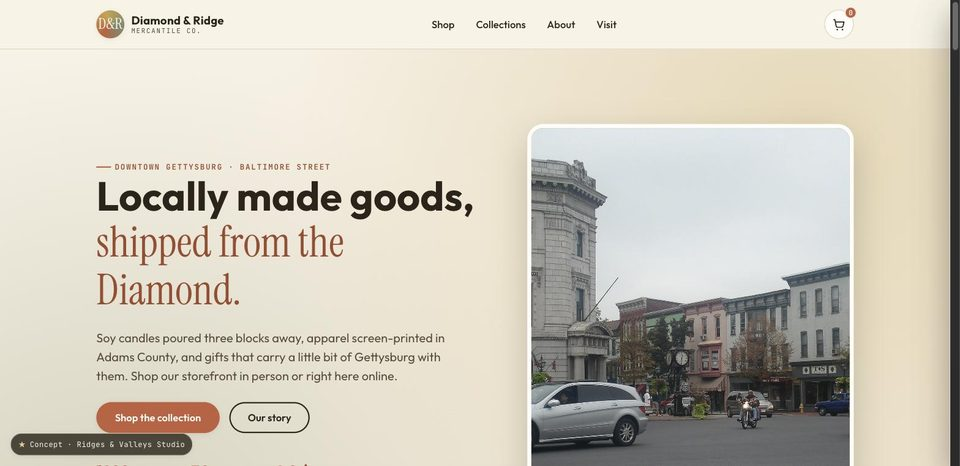
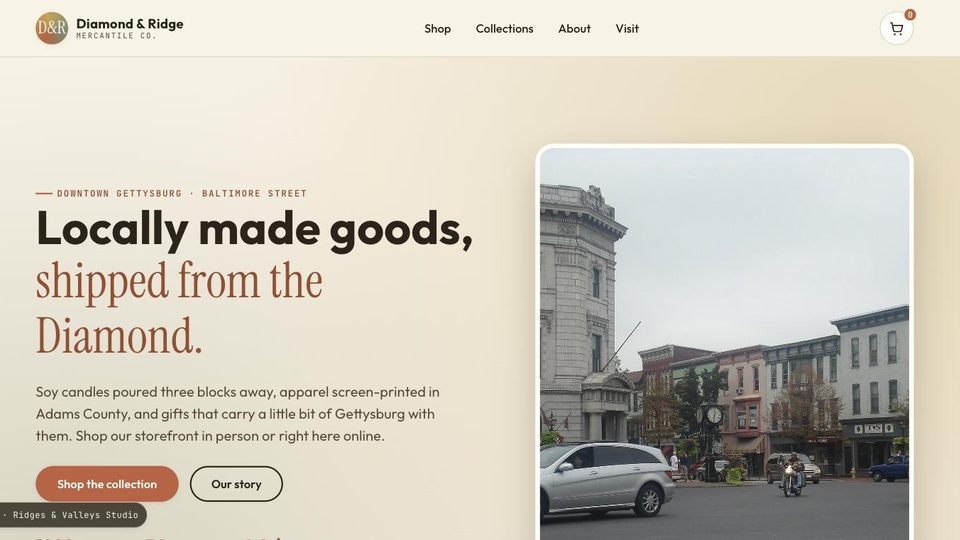
Crop Work screenshots to one 16:9 size.
Cards share equal columns and the same image frame so the grid no longer mixes crops or a full-width hero shot.

diff --git a/resources/css/portfolio.css b/resources/css/portfolio.css
@@ -532,7 +532,7 @@ body.mh-popout-open .mh-popout-overlay { opacity: 1; pointer-events: auto; }
 .card-grid { grid-template-columns: repeat(2, minmax(0, 1fr)); }
 .card-grid--3 { grid-template-columns: repeat(3, minmax(0, 1fr)); }
 .who-grid { grid-template-columns: repeat(4, minmax(0, 1fr)); }
-.work-grid { grid-template-columns: minmax(0, 1.45fr) minmax(0, 1fr); }
+.work-grid { grid-template-columns: repeat(2, minmax(0, 1fr)); }
 .pf-grid { grid-template-columns: repeat(2, minmax(0, 1fr)); }
 .svc-list { grid-template-columns: repeat(2, minmax(0, 1fr)); counter-reset: svc; list-style: none; margin: 0; padding: 0; }
 .process-list { grid-template-columns: repeat(3, minmax(0, 1fr)); counter-reset: step; list-style: none; margin: 0; padding: 0; }
@@ -586,11 +586,12 @@ body.mh-popout-open .mh-popout-overlay { opacity: 1; pointer-events: auto; }
 }
 .work-shot {
   display: block;
-  aspect-ratio: 16 / 10;
+  width: 100%;
+  aspect-ratio: 16 / 9;
+  height: auto;
   overflow: hidden;
   background: #0f172a;
   border-bottom: 2px solid var(--color-ink);
-  min-height: 44px;
 }
 .work-shot img {
   width: 100%;
@@ -602,11 +603,7 @@ body.mh-popout-open .mh-popout-overlay { opacity: 1; pointer-events: auto; }
 .work-body {
   padding: 1.35rem 1.5rem 1.5rem;
 }
-.work-grid > .work-card:first-child .work-body {
-  padding: 1.65rem 1.85rem 1.85rem;
-}
 .work-grid > .work-card:first-child .work-shot {
-  aspect-ratio: 2 / 1;
   border-bottom-color: #1e3a8a;
 }
 .lift-card h3,
@@ -663,10 +660,6 @@ body.mh-popout-open .mh-popout-overlay { opacity: 1; pointer-events: auto; }
 .svc-item:nth-child(4n+1) p,
 .work-grid > .work-card:first-child .pf-meta,
 .process-list li:first-child p { color: #cbd5e1; }
-.work-grid > .work-card:first-child {
-  grid-column: 1 / -1;
-}
-.work-grid > .work-card:first-child h2 { font-size: clamp(1.7rem, 4vw, 2.6rem); max-width: 22ch; }
 .work-grid > .work-card:first-child .pill { background: #1e3a8a; color: #dbeafe; }
 
 .value-grid li,

diff --git a/resources/views/template-projects.blade.php b/resources/views/template-projects.blade.php
@@ -43,12 +43,12 @@
         @if ($shot !== '')
           @if ($concept !== '')
             <a class="work-shot" href="{{ esc_url($concept) }}" rel="noopener" target="_blank">
-              <img src="{{ esc_url($shot) }}" alt="{{ esc_attr(sprintf(__('Screenshot of %s from Ridges & Valleys', 'sage'), $p['title'])) }}" width="960" height="480" loading="lazy" decoding="async">
+              <img src="{{ esc_url($shot) }}" alt="{{ esc_attr(sprintf(__('Screenshot of %s from Ridges & Valleys', 'sage'), $p['title'])) }}" width="960" height="540" loading="lazy" decoding="async">
               <span class="visually-hidden"> {{ __('(opens in a new window)', 'sage') }}</span>
             </a>
           @else
             <div class="work-shot">
-              <img src="{{ esc_url($shot) }}" alt="{{ esc_attr(sprintf(__('Screenshot of %s', 'sage'), $p['title'])) }}" width="960" height="480" loading="lazy" decoding="async">
+              <img src="{{ esc_url($shot) }}" alt="{{ esc_attr(sprintf(__('Screenshot of %s', 'sage'), $p['title'])) }}" width="960" height="540" loading="lazy" decoding="async">
             </div>
           @endif
         @endif

diff --git a/CHANGELOG.md b/CHANGELOG.md
@@ -20,6 +20,7 @@ All notable changes to this theme are recorded here.
 - Single posts: wider left column, right sidebar (summary, TOC, search, popular, topics, RSS), auto heading ids
 - Skill chips and social links use icons; navbar is roomier
 - Work cards use screenshots from the Ridges & Valleys concept pages (image links to the concept)
+- Work screenshots are cropped to one 16:9 size so the grid stays even
 
 ## 3.0.10 — 2026-08-19
 
